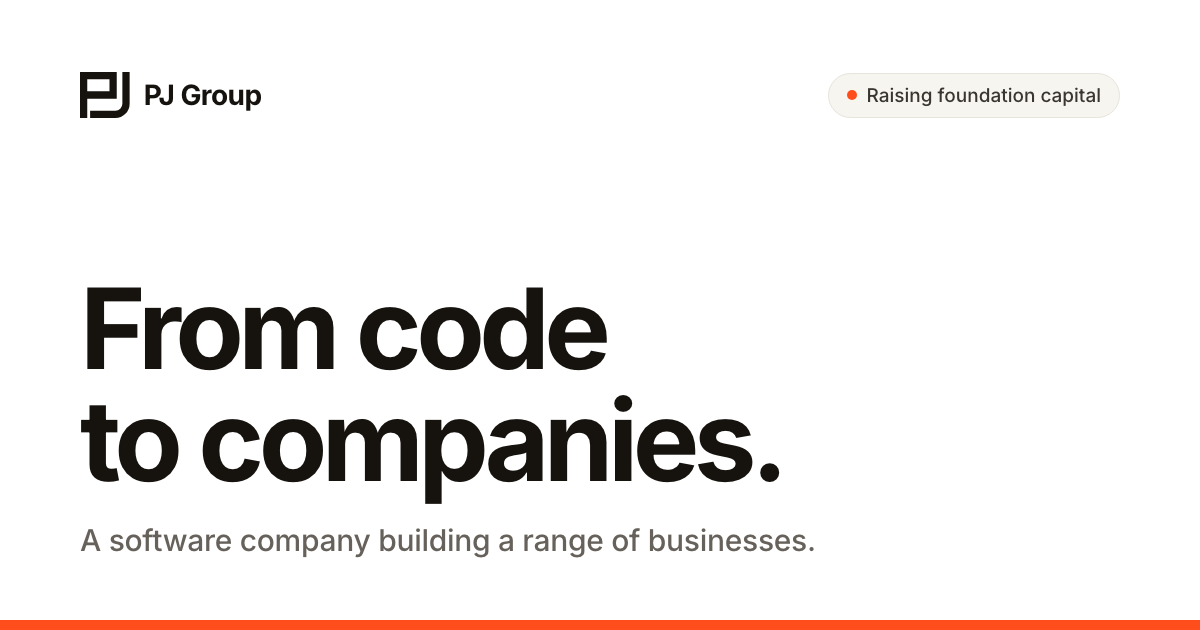
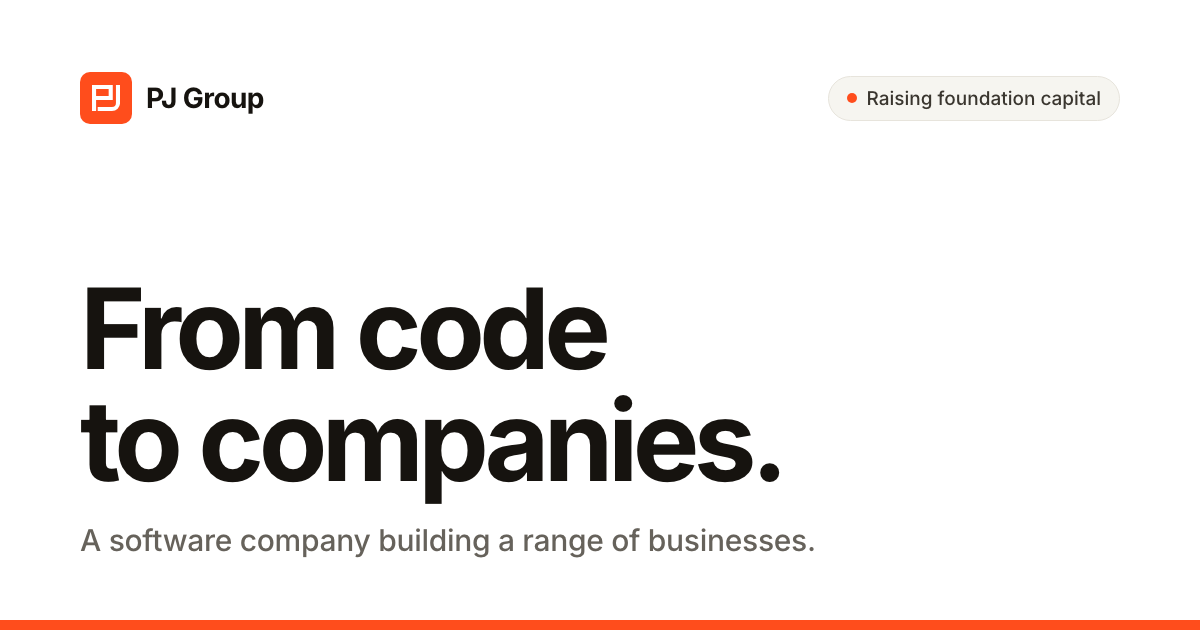
Put the PJ mark on a YC-style orange tile
Nav/footer, favicon, apple-touch icon, JSON-LD logo and the share image
now show the white PJ monogram on a brand-orange square.

Changed region(s): [[0.7092, 0.1206, 0.925, 0.181], [0.0617, 0.0905, 0.2158, 0.2111]]

diff --git a/index.html b/index.html
@@ -78,7 +78,7 @@
   <link rel="preconnect" href="https://cdn.jsdelivr.net" crossorigin>
   <link rel="stylesheet" href="https://fonts.googleapis.com/css2?family=Inter:wght@400;500;600;700&display=swap">
   <link rel="stylesheet" href="https://cdn.jsdelivr.net/gh/orioncactus/pretendard@v1.3.9/dist/web/variable/pretendardvariable-dynamic-subset.min.css">
-  <link rel="stylesheet" href="assets/css/style.css?v=3">
+  <link rel="stylesheet" href="assets/css/style.css?v=4">
 
   <script>
     (function () {
@@ -97,7 +97,7 @@
   <header class="nav" id="nav">
     <div class="container nav__inner">
       <a href="#top" class="brand" aria-label="PJ Group home">
-        <svg class="brand__mark" viewBox="0 0 520 482" aria-hidden="true" focusable="false"><path fill-rule="evenodd" d="M0 0H385V279H76V482H0Z M76 76V203H309V76Z"/><path d="M444 0H520V332A150 150 0 0 1 370 482H106V406H370A74 74 0 0 0 444 332Z"/></svg>
+        <span class="brand__tile"><svg class="brand__mark" viewBox="0 0 520 482" aria-hidden="true" focusable="false"><path fill-rule="evenodd" d="M0 0H385V279H76V482H0Z M76 76V203H309V76Z"/><path d="M444 0H520V332A150 150 0 0 1 370 482H106V406H370A74 74 0 0 0 444 332Z"/></svg></span>
         <span class="brand__name">PJ Group</span>
       </a>
       <nav class="nav__links" id="navLinks" aria-label="Main">
@@ -339,7 +339,7 @@
   <footer class="footer">
     <div class="container footer__inner">
       <a href="#top" class="brand" aria-label="PJ Group home">
-        <svg class="brand__mark" viewBox="0 0 520 482" aria-hidden="true" focusable="false"><path fill-rule="evenodd" d="M0 0H385V279H76V482H0Z M76 76V203H309V76Z"/><path d="M444 0H520V332A150 150 0 0 1 370 482H106V406H370A74 74 0 0 0 444 332Z"/></svg>
+        <span class="brand__tile"><svg class="brand__mark" viewBox="0 0 520 482" aria-hidden="true" focusable="false"><path fill-rule="evenodd" d="M0 0H385V279H76V482H0Z M76 76V203H309V76Z"/><path d="M444 0H520V332A150 150 0 0 1 370 482H106V406H370A74 74 0 0 0 444 332Z"/></svg></span>
         <span class="brand__name">PJ Group</span>
       </a>
       <nav class="footer__links" aria-label="Footer">

diff --git a/assets/css/style.css b/assets/css/style.css
@@ -60,7 +60,9 @@ section[id], main[id] { scroll-margin-top: calc(var(--nav-h) + 8px); }
 
 /* ---------- Atoms ---------- */
 .brand { display: inline-flex; align-items: center; gap: 10px; }
-.brand__mark { display: block; width: auto; height: 24px; fill: currentColor; flex: none; }
+/* YC-style tile: white PJ monogram on brand orange */
+.brand__tile { flex: none; width: 30px; height: 30px; border-radius: 6px; background: var(--accent); display: grid; place-items: center; }
+.brand__mark { display: block; width: auto; height: 15px; fill: #fff; }
 .brand__name { font-weight: 700; font-size: 17px; letter-spacing: -.02em; }
 
 .btn {
